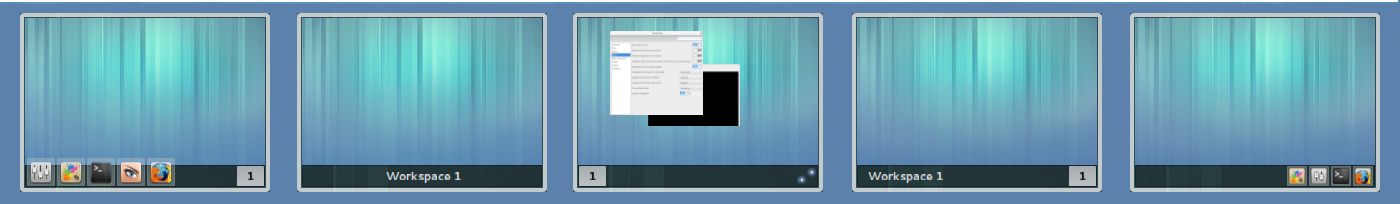
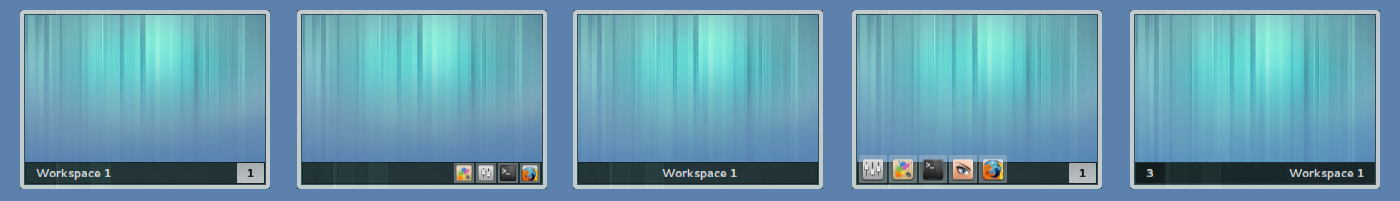
Update readme, screenshots, and installation zip

diff --git a/README.md b/README.md
@@ -79,7 +79,9 @@ Additional Settings:
 
 - **Workspace Captions:**
 
-	**Add captions to workspace thumbnails** - Adds captions to the workspace thumbnails.
+	**Add captions to workspace thumbnails** - Adds captions to the workspace thumbnails. Right clicking on the workspace caption displays a popup menu with options to close applications or show the extension preferences dialog. (See image below)
+
+![screenshot](https://github.com/passingthru67/workspaces-to-dock/raw/master/Popup.png)
 
 	**User theme supports workspaces-to-dock captions** - When enabled, user themes that support workspaces-to-dock captions will be used to style the captions. Unfortunately, there is no built-in detection for when a theme supports workspaces-to-dock captions. Therefore, if this option is enabled, the default style will be disabled. We hope to provide auto-detection in a future release.
 
@@ -158,6 +160,12 @@ If the problem persists, please report it by opening an issue on github or with 
 
 Change Log:
 -----------
+**version 11**
+- Option to display workspace taskbar (app icons) in the caption (feature)
+- Option to require mouse click (in addition to hovering) to show dock when focused window is maximized (feature)
+- Option to leave the dock edge visible when slid out (feature)
+- Bug fixes for longstanding issues in dual monitor configurations
+
 **version 10 (Feb 27, 2013)**
 - Removed auto detection of user theme support (buggy?)
 
